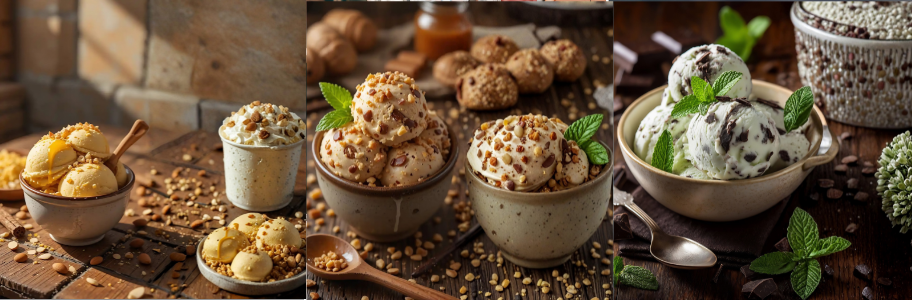
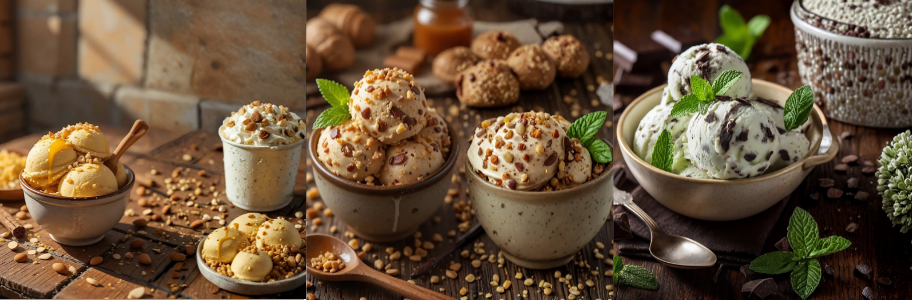
..

diff --git a/Produtos.html b/Produtos.html
@@ -68,9 +68,43 @@
         .conteiner_img{
             width: 80%;
             margin: auto ;
-            background-color: rgb(246, 246, 246);
-            padding: 0px;
+            background-color:  rgb(110, 52, 1);
+            padding: 15px;
             border-radius: 20px;
+      
+        }
+
+        /*----------------------------------------------------------------------------------------------------------*/
+
+        .rodapé {
+            width: 20%;
+            height: 600px;
+            background-size: 100%;
+            background-repeat: no-repeat;
+            box-sizing: border-box;
+        }
+
+        .rodapéA {
+            background-image: url(img/logo\ 5.png);
+        }
+
+        .rodapéB {
+            background-image: url(img/15.jpg);
+        }
+
+        .br {
+            background-color:rgb(222, 222, 222);
+        }
+        .slogan_roda {
+            margin-right: 50px;
+            width: 200px;
+            font-family: "Poller One", sans-serif;
+            text-align: center;
+            font-size: 22px;
+            color: rgba(224, 224, 216);
+            line-height: 40px;
+            padding-top: 20px;
+
       
         }
     </style>
@@ -102,11 +136,30 @@
         <div class="conteiner_img">
             <div class="fundo">
                 <div class="meio">
-                    <a href="ProdutosExóticos.html"><img src="img/banner 02.png"></a>
+                    <a href="ProdutosExóticos.html"><img src="img/banner movel.png"></a>
                 </div>
+            </div>
+        </div>
+        <div class="br">
+            <br>
+            <br>
+            <br>
+            <br>
+            <br>
+            <br>
+            <br>
+        </div>
+        <div class="fundo_rodapé roda">
+            <img src="img/logo 5.png" height="200px" width="200px">
+            <div class="down_down">
+                <a href="https://pt-br.facebook.com/" target="_blank"><img src="Img/face_logo_01.png"></a>
+                <a href="https://web.whatsapp.com/" target="_blank"><img src="Img/whats_logo_01.png"></a>
+                <a href="https://www.instagram.com/" target="_blank"><img src="Img/inst_logo_01.png"></a>
+            </div>
+            <div class="slogan_roda">
+                <p>Exclusividade<br> e verdadeiro<br> sabor, Isso é <br> Me Gusta!</p>
             </div>
         </div>
 
 </body>
-
 </html>
